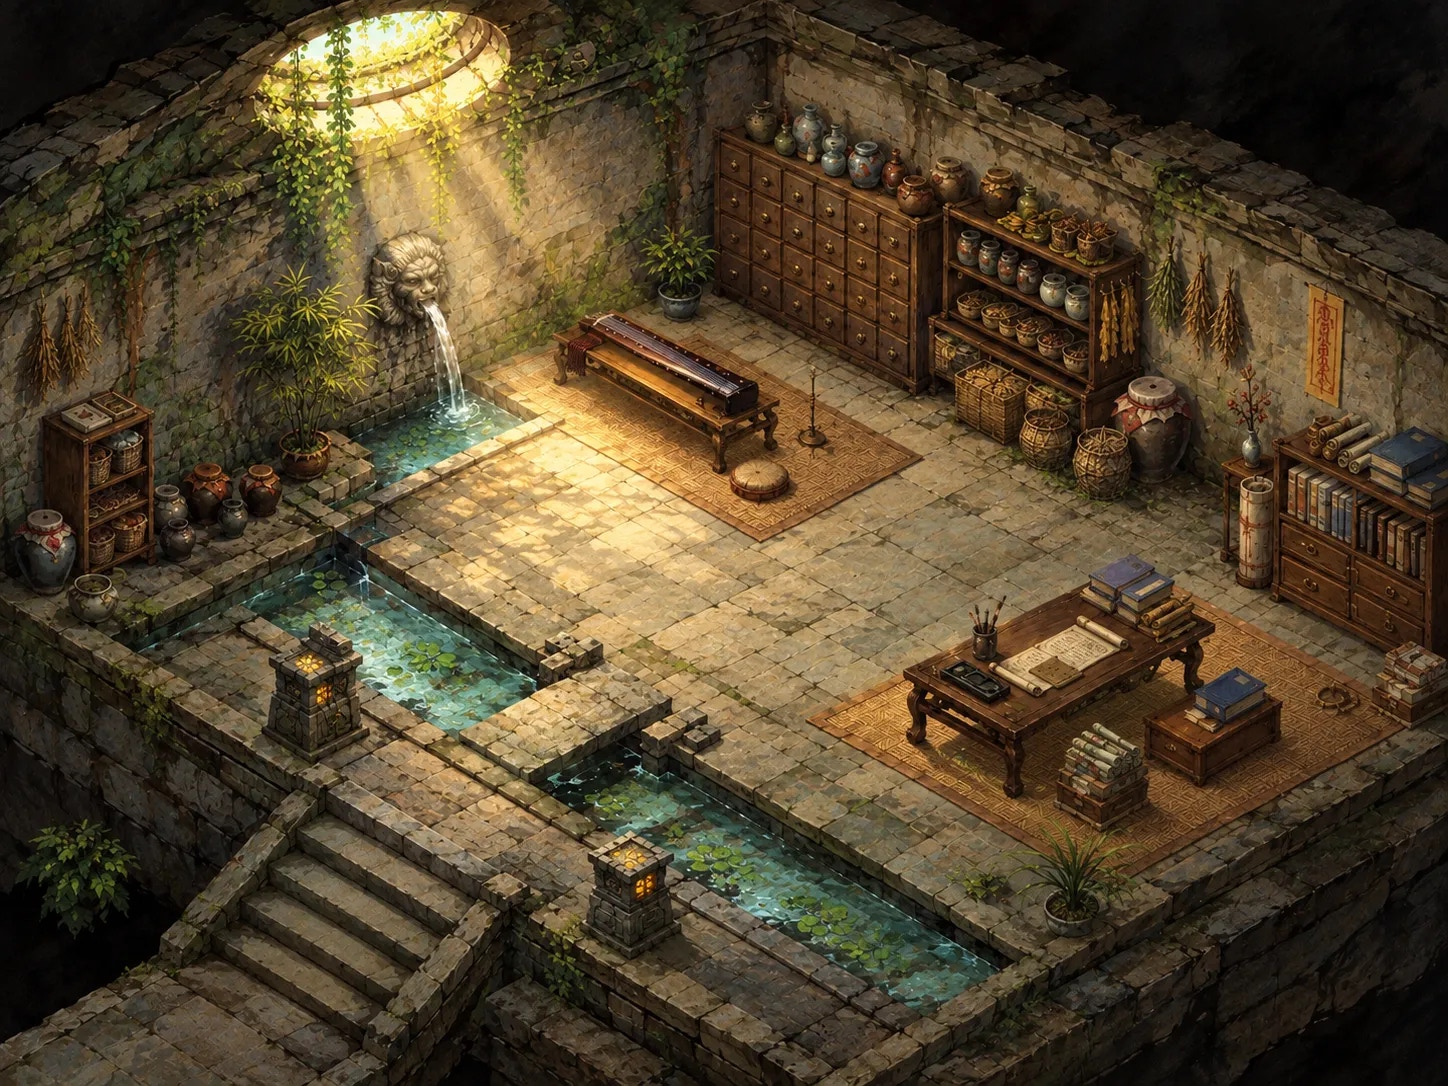
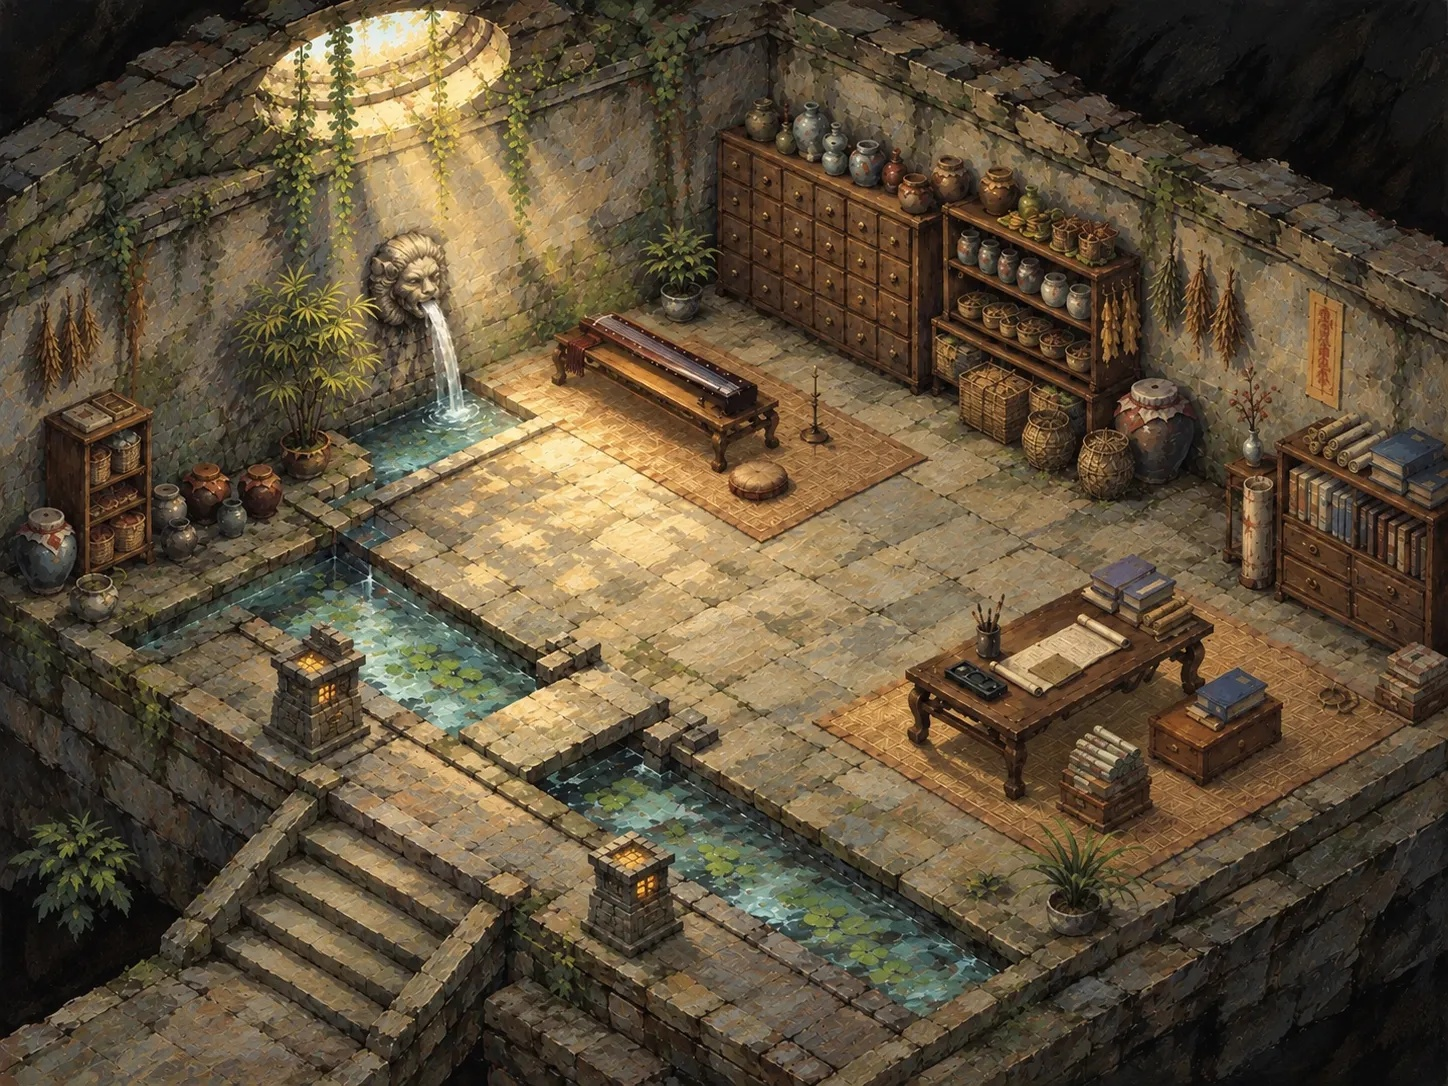
Backgrounds: Yuheng plaza (hand-lettered signs, foreground occluders re-cut), Yin Yue Manor interior day/night and purified sewer (cave, medicine room) in the lower-resolution style

diff --git a/docs/claude_diary.md b/docs/claude_diary.md
@@ -92,3 +92,6 @@
 - 2026-10-28：任務頁右上紅色類型章（主線／支線）字放大到 22、一字一行上下排（SEAL_* 常數在 QuestPage.gd 開頭）。
 - 2026-10-28：任務頁、道具頁的黑色墨章標題字改成跟裝備頁一樣「置中＋整體偏左 2~3px」（墨章圖片不動）。未 commit。
 - 2026-10-28：道具頁區塊標題兩個字（效果）改用窄的 label_ink_s 墨章（80 寬），四個字的仍用 label_ink_m（100 寬）。未 commit。
+- 2026-10-28：玉衡鎮廣場（yuheng_outside）背景換成老闆手寫字的新版（旗幡「一夫當關」、客棧招牌、酒宿燈籠）：新圖 1254×1254 縮成 1024×1024 覆蓋 yuheng_outside1.jpg（保持原本的圖塊對位）；六張遮擋前景圖（chair、corner_east／east2／north／south、umbrella）依原本的透明度形狀、位置（用模板比對求出在背景上的位置）重新從新圖取色，避免新舊背景色差出現接縫。未 commit。
+- 2026-10-28：飲月山莊內部（白天、夜晚）背景換成降解析的像素風新版（1448×1086，跟舊圖同尺寸、同位置，沒有前景遮擋圖，場景不需改）。第三張白天圖左下角有老闆畫了一半的出口紅線（往山莊外），等老闆畫完再做。未 commit。
+- 2026-10-28：淨化後水道兩張背景換新版（降解析像素風）：yuheng_sewer_true.jpg（洞窟河道）與 yuheng_sewer_true_room.jpg（藥師舊室，獅頭噴泉）；尺寸、擺設位置跟舊圖相同，場景不需改。未 commit。
